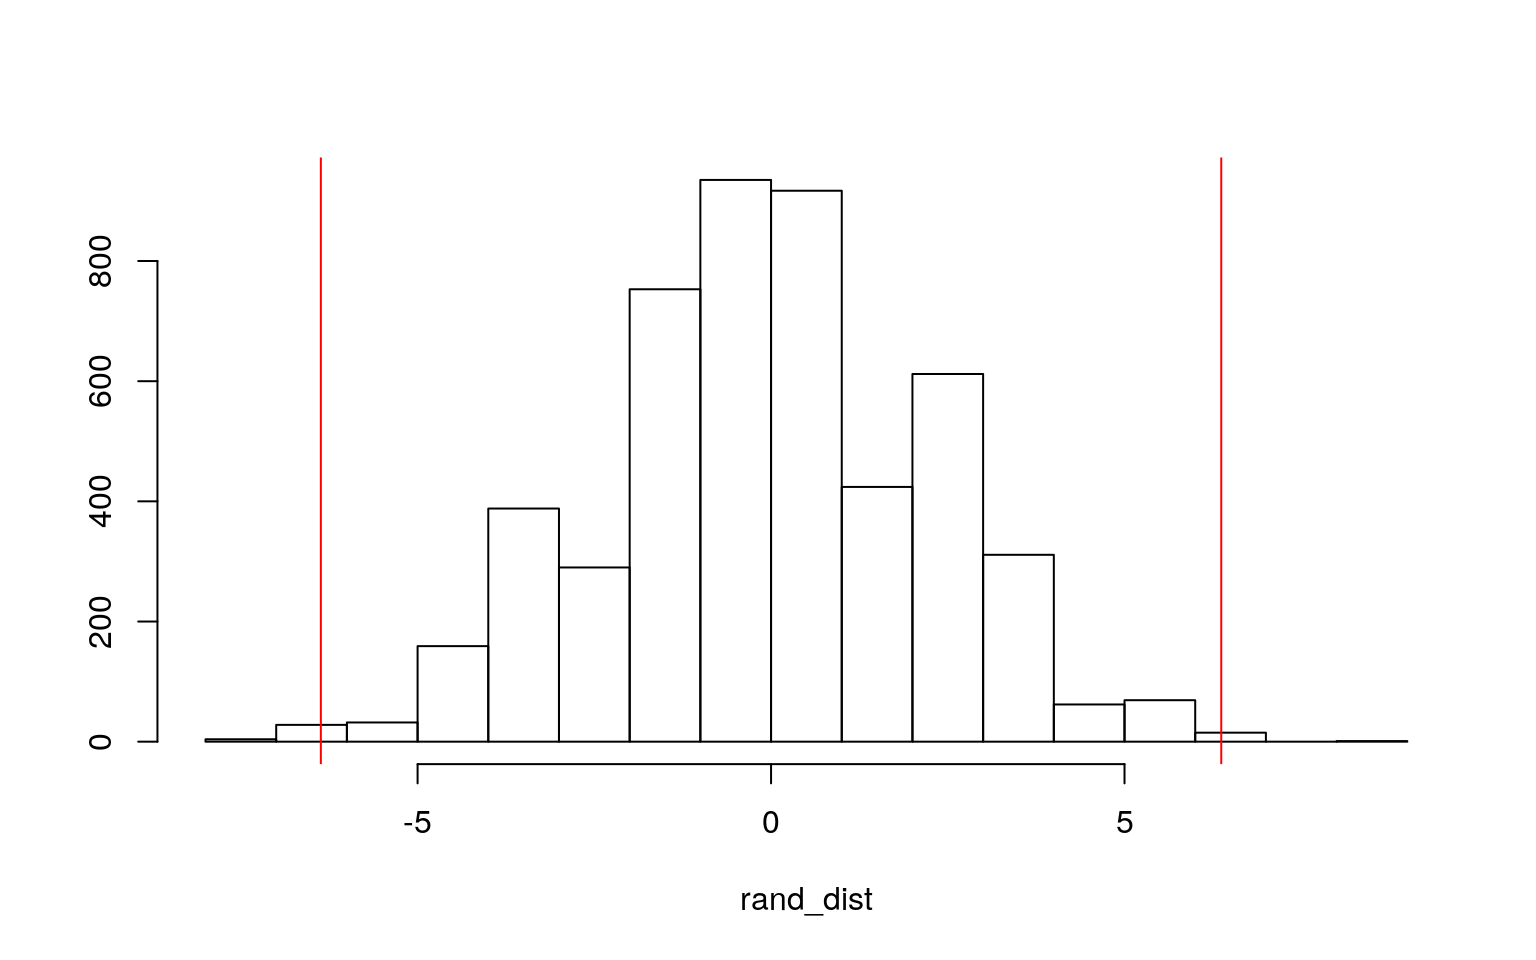
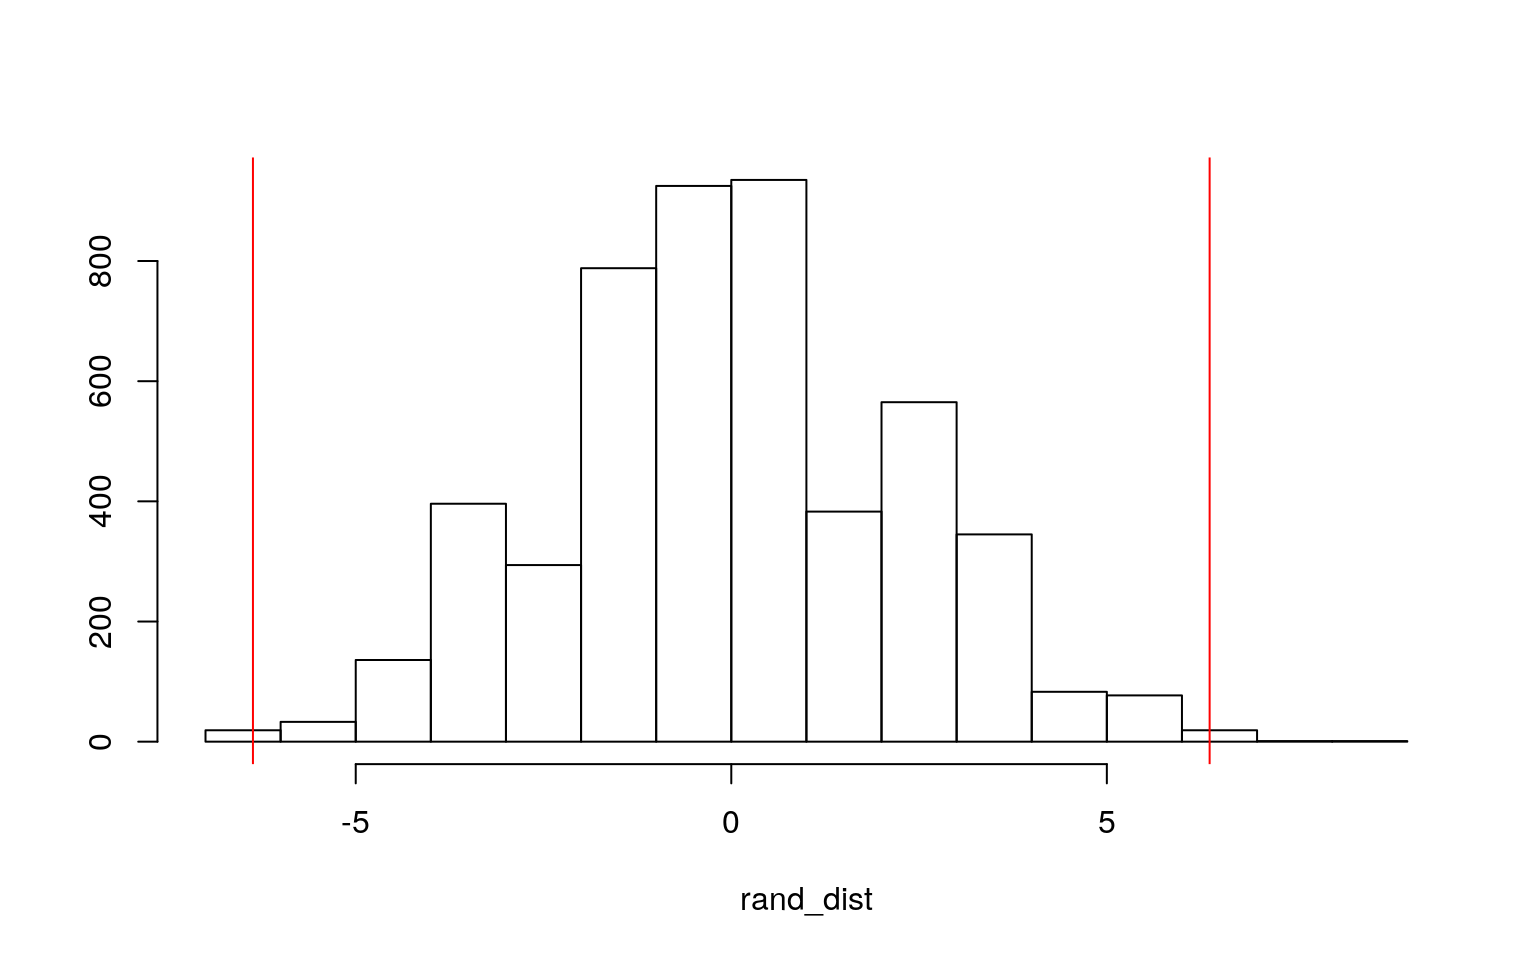
some message

diff --git a/post/2021/05/05/r-and-python/index.html b/post/2021/05/05/r-and-python/index.html
@@ -1,0 +1,124 @@
+<!DOCTYPE html>
+<html lang="en-US">
+  <head>
+    <meta charset="utf-8">
+    <meta http-equiv="X-UA-Compatible" content="IE=edge">
+    <meta name="viewport" content="width=device-width, initial-scale=1">
+    <meta name="author" content="Kim Phan" />
+    
+    <link rel="shortcut icon" type="image/x-icon" href="../../../../../img/favicon.ico">
+    <title>R and Python</title>
+    <meta name="generator" content="Hugo 0.83.1" />
+    <link rel="stylesheet" href="https://maxcdn.bootstrapcdn.com/bootstrap/3.3.7/css/bootstrap.min.css" integrity="sha384-BVYiiSIFeK1dGmJRAkycuHAHRg32OmUcww7on3RYdg4Va+PmSTsz/K68vbdEjh4u" crossorigin="anonymous">
+    <link rel="stylesheet" type="text/css" href="../../../../../css/main.css" />
+    <link rel="stylesheet" type="text/css" href="https://maxcdn.bootstrapcdn.com/font-awesome/4.7.0/css/font-awesome.min.css" />
+    <link rel="stylesheet" type="text/css" href="https://fonts.googleapis.com/css?family=Source+Sans+Pro:200,400,200bold,400old" />
+    
+    <!--[if lt IE 9]>
+			<script src="https://oss.maxcdn.com/libs/html5shiv/3.7.0/html5shiv.js"></script>
+			<script src="https://oss.maxcdn.com/libs/respond.js/1.4.2/respond.min.js"></script>
+		<![endif]-->
+
+    
+  </head>
+
+  <body>
+    <div id="wrap">
+      
+      <nav class="navbar navbar-default">
+  <div class="container">
+    <div class="navbar-header">
+      <a class="navbar-brand" href="../../../../../"><i class="fa fa-home"></i></a>
+      <button type="button" class="navbar-toggle" data-toggle="collapse" data-target="#navbar">
+        <span class="icon-bar"></span>
+        <span class="icon-bar"></span>
+        <span class="icon-bar"></span>
+      </button>
+    </div>
+    <div class="navbar-collapse collapse" id="navbar">
+      <ul class="nav navbar-nav navbar-right">
+      
+        
+        <li><a href="../../../../../post/">BLOG</a></li>
+        
+        <li><a href="../../../../../projects/">PROJECTS</a></li>
+        
+        <li><a href="../../../../../resume/">RESUME</a></li>
+        
+      
+      </ul>
+    </div>
+  </div>
+</nav>
+
+      <div class="container">
+        <div class="blog-post">
+          <h3>
+            <strong><a href="../../../../../post/2021/05/05/r-and-python/">R and Python</a></strong>
+          </h3>
+        </div>
+ 
+<div class="blog-title">
+          <h4>
+         May 5, 2021 
+            &nbsp;&nbsp;
+            
+          </h4>
+        </div>
+
+        <div class="panel panel-default">
+          <div class="panel-body">
+            <div class="blogpost">
+              
+
+
+<div id="what-is-the-difference-between-r-and-python" class="section level1">
+<h1>What is the difference between R and Python?</h1>
+<p>There are many types of coding languages out there each with their own strengths and drawbacks. R and Python are two popular and well known languages. R is often used for statistics and is used primarily in academic and research as it is great for data analysis. R is also great for people who have no coding experience. Python on the other hand is mainly used by programmers. It also has the ability to be used for other purposes beyond data analysis.</p>
+</div>
+<div id="so-why-use-them-together" class="section level1">
+<h1>So why use them together?</h1>
+<p>As mentioned before, each coding language has their own pros and cons. Using multiple together could be a great way to overcome any cons. Also, just like spoken language, you want to be able to speak to the language of those you are working with. Let’s say you are working on a collaborative project and you are working in R and they are working in Python. It would be best to find a way to have R and Python work together in order for you to get the job done. Below is an example of R and Python working together.</p>
+<pre class="r"><code>library(reticulate)
+part1&lt;-&quot;Thank you&quot;</code></pre>
+<pre class="python"><code>part2 = &quot;for checking out my project!&quot;
+print(r.part1,part2)</code></pre>
+<pre><code>## Thank you for checking out my project!</code></pre>
+<pre class="r"><code>cat(c(part1,py$part2))</code></pre>
+<pre><code>## Thank you for checking out my project!</code></pre>
+</div>
+
+            
+
+            </div>
+          </div>
+
+
+        </div>
+      </div>
+    </div>
+
+    
+    <footer>
+  <div id="footer">
+    <div class="container">
+      <p class="text-muted">&copy; All rights reserved. Powered by <a href="https://gohugo.io/">Hugo</a> and
+      <a href="http://www.github.com/nurlansu/hugo-sustain/">sustain</a> with ♥</p>
+    </div>
+  </div>
+</footer>
+<div class="footer"></div>
+
+
+<script src="https://ajax.googleapis.com/ajax/libs/jquery/1.11.3/jquery.min.js"></script>
+
+<script src="https://maxcdn.bootstrapcdn.com/bootstrap/3.3.7/js/bootstrap.min.js" integrity="sha384-Tc5IQib027qvyjSMfHjOMaLkfuWVxZxUPnCJA7l2mCWNIpG9mGCD8wGNIcPD7Txa" crossorigin="anonymous"></script>
+<script src="../../../../../js/docs.min.js"></script>
+<script src="../../../../../js/main.js"></script>
+
+<script src="../../../../../js/ie10-viewport-bug-workaround.js"></script>
+
+
+    
+  </body>
+</html>

diff --git a/post/2021-05-09-python.html b/post/2021-05-09-python.html
@@ -1,0 +1,24 @@
+
+
+
+<p>+++
+title = “Coding Languages: R and Python”
+description = “You can use them together!”
+tags = []
+categories = []
+—</p>
+<div id="what-is-the-difference-between-r-and-python" class="section level1">
+<h1>What is the difference between R and Python?</h1>
+<p>There are many types of coding languages out there each with their own strengths and drawbacks. R and Python are two popular and well known languages. R is often used for statistics and is used primarily in academic and research as it is great for data analysis. R is also great for people who have no coding experience. Python on the other hand is mainly used by programmers. It also has the ability to be used for other purposes beyond data analysis.</p>
+</div>
+<div id="so-why-use-them-together" class="section level1">
+<h1>So why use them together?</h1>
+<p>As mentioned before, each coding language has their own pros and cons. Using multiple together could be a great way to overcome any cons. Also, just like spoken language, you want to be able to speak to the language of those you are working with. Let’s say you are working on a collaborative project and you are working in R and they are working in Python. It would be best to find a way to have R and Python work together in order for you to get the job done. Below is an example of R and Python working together.</p>
+<pre class="r"><code>library(reticulate)
+part1&lt;-&quot;Thank you&quot;</code></pre>
+<pre class="python"><code>part2 = &quot;for checking out my project!&quot;
+print(r.part1,part2)</code></pre>
+<pre><code>## Thank you for checking out my project!</code></pre>
+<pre class="r"><code>cat(c(part1,py$part2))</code></pre>
+<pre><code>## Thank you for checking out my project!</code></pre>
+</div>

diff --git a/project/project2/index.html b/project/project2/index.html
@@ -429,7 +429,7 @@ data %&gt;% group_by(Class) %&gt;%summarise(means = mean(MovementSpeed)) %&gt;% 
 ##       &lt;dbl&gt;
 ## 1      6.37</code></pre>
 <pre class="r"><code>mean(rand_dist &gt; 6.368421 | rand_dist &lt; -6.368421)</code></pre>
-<pre><code>## [1] 0.0074</code></pre>
+<pre><code>## [1] 0.005</code></pre>
 <p>Looking at the actual mean difference of MovementSpeed between Tanks and Support, it is a big enough number that I would assume it is significant. This was supported by the randomizaiton test as the resulting p-value was less than 0.05.</p>
 <pre class="r"><code>hist(rand_dist,main=&quot;&quot;,ylab=&quot;&quot;); abline(v = c(-6.368421, 6.368421),col=&quot;red&quot;)</code></pre>
 <p><img src="../../project/project2_files/figure-html/unnamed-chunk-16-1.png" width="768" style="display: block; margin: auto;" /></p>
@@ -538,11 +538,11 @@ ggplot() +geom_point(aes(fitvals, resids)) + geom_hline(yintercept=0, color =&qu
 samp_distn %&gt;% t %&gt;% as.data.frame %&gt;% summarize_all(sd) </code></pre>
 <pre><code>## (Intercept) Range_c ClassFighter ClassMage ClassMarksman
 ClassSupport ClassTank
-## 1 17.70199 0.09101393 17.92514 17.90779 18.12875 17.7661
-19.89666
+## 1 17.85901 0.09202067 18.08551 17.95744 18.32265
+17.93604 19.97349
 ## Range_c:ClassFighter Range_c:ClassMage
 Range_c:ClassMarksman Range_c:ClassSupport
-## 1 0.09229316 0.09151897 0.09259732 NA
+## 1 0.09328316 0.0929806 0.09320694 NA
 ## Range_c:ClassTank
 ## 1 NA</code></pre>
 </div>

diff --git a/post/index.html b/post/index.html
@@ -59,12 +59,12 @@
               <div class="row">
                 <div class="col-sm-4 col-md-4 col-lg-4">
                   <h5 style="text-align: right">
-                    July 23, 2015
+                    May 5, 2021
                   </h5>
                  </div>
                  <div class="col-sm-8 col-md-8 col-lg-8">
                    <h5 style="text-align: left">
-                    <strong><a href="../post/2015/07/23/hello-r-markdown/">Hello R Markdown</a></strong>
+                    <strong><a href="../post/2021/05/05/r-and-python/">R and Python</a></strong>
                   </h5>
                 </div>
               </div>
